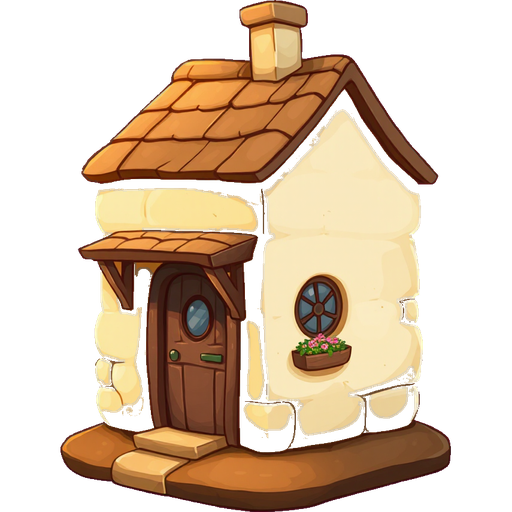
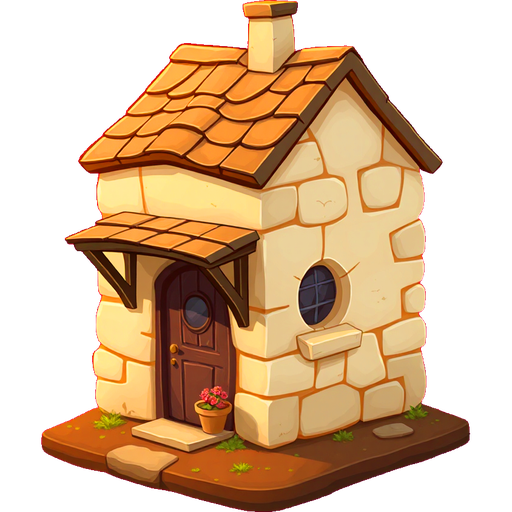
fix: solid cottage sprite - creatures were visible through its walls and roof notch

diff --git a/tools/art/briefs.py b/tools/art/briefs.py
@@ -130,7 +130,17 @@ PROMPTS = {
     "zombie_2": _REGRET + " Big heavy bruiser, wider jaw, both arms fully out.",
     # ---- The Homestead (house levels; 2 and 3 rewritten in 1C.6 for grandeur) ----
     "house_0": _HOMESTEAD + " A small thatched-roof hut with a stitched thatch patch.",
-    "house_1": _HOMESTEAD + " A stone cottage with a chimney.",
+    # house_1 originally carried no solidity clause at all — it predates the lesson — and
+    # shipped with creature faces visible through the wall/base junction and through the notch
+    # between the main roof and the porch roof. Same fix as the castle: forbid the overhangs.
+    "house_1": _HOMESTEAD + " A STONE COTTAGE with a chimney, a shingled porch roof over the "
+    "door built FLUSH against the wall, and a round window."
+    " The building is ONE SOLID CONTINUOUS MASS: solid unbroken walls from the roof down to "
+    "the ground, the walls meeting the ground with no gap, no open space beneath the roof "
+    "eaves or the porch roof, no holes or openings in the walls, nothing see-through anywhere "
+    "in the building."
+    " The ENTIRE background behind and around the building is ONE FLAT SOLID UNIFORM MAGENTA "
+    "COLOR filling the whole frame. No sky, no gradient, no horizon, no landscape.",
     "house_2": _HOMESTEAD + " A GRAND TWO-STORY house: brick walls, tall shuttered "
     "windows on both floors, a steep gabled roof, a chimney.",
     # house_3 is a CASTLE, chosen by Rajdweep 2026-09-04 after the villa re-rolls: he wanted

diff --git a/docs/assets/sprite-briefs.md b/docs/assets/sprite-briefs.md
@@ -65,7 +65,7 @@ the four shipped houses on 2026-09-04.
 | thistle_weed_0 | **Scruff** (weed) | Scraggly thistle punk: spiky awkward purple-green tuft, guilty sideways glance, sheepish grimace. |
 | odd_mushroom_0 | **Dozer** (weed) | Droopy dusty-purple mushroom creature: lopsided cap slid over one eye, half-asleep confused expression, tiny yawn. |
 | zombie_0/1/2 | **The Regret** | Cartoon zombie garden-person freshly risen out of the soil: grey-green skin, big round skull with a heavy brow, mismatched wide white eyes with tiny pupils, dislocated open jaw with a few crooked teeth, torn olive-brown t-shirt with a stitched fabric patch, shredded blue-grey trousers, both arms stretched forward with limp dangling fingers, a crumpled white paper RECEIPT (red scribble on it) stuck on its head like a little hat, soil clods at its feet, one small buzzing fly. Goofy and harmless, not scary or gory. Extra negatives: no suit, no necktie, no traffic cone, no bucket. 0: tiny toddler-sized. 1: standard shambler. 2: big heavy bruiser, wider jaw, both arms fully out. |
-| house_0..3 | **The Homestead** | Cozy storybook garden dwelling viewed from the front at a slight three-quarter angle suiting an isometric game, warm cream walls, front door facing viewer-left, round window, potted flower by the door, same outline + soft-shading style, on a soil base. 0: small thatched-roof hut with a stitched thatch patch. 1: stone cottage with a chimney. 2 (revised 1C.6): a GRAND TWO-STORY house — brick walls, tall shuttered windows on both floors, a steep gabled roof, a chimney. 3 (revised 2026-09-04): a GRAND CASTLE MANOR — symmetrical honey-stone facade flanked by two crenellated corner towers, a central arched gatehouse under a carved stone hood, mullioned arched windows, stone quoins. Rajdweep's pick after the villa re-rolls: he wanted something between a stately villa and a classical manor, referencing medieval castles. TWO hard clauses, each naming a past failure: (a) castle overhangs — machicolations, corbels, bartizans — are forbidden by name, because overhangs are exactly what left see-through bands across the previous villa; (b) the background clause is negative ("NO sky, NO gradient, NO horizon"), because a positive "isolated on magenta" was ignored and FLUX painted a sunset, leaving nothing for the keyer to remove. NOTE: `facade_gaps` reports ~38 rows for this sprite and that is correct — the gaps are the notches between the towers, which show only sky on the island. |
+| house_0..3 | **The Homestead** | Cozy storybook garden dwelling viewed from the front at a slight three-quarter angle suiting an isometric game, warm cream walls, front door facing viewer-left, round window, potted flower by the door, same outline + soft-shading style, on a soil base. 0: small thatched-roof hut with a stitched thatch patch. 1 (revised 2026-09-04): a STONE COTTAGE with a chimney, a shingled porch roof over the door built FLUSH against the wall, and a round window. The original brief was a single line with no solidity clause — it predates the lesson — and shipped with creature faces visible through the wall/base junction and through the notch between the main roof and the porch roof. Same two overhangs as the villa. Solidity and negative-background clauses added. 2 (revised 1C.6): a GRAND TWO-STORY house — brick walls, tall shuttered windows on both floors, a steep gabled roof, a chimney. 3 (revised 2026-09-04): a GRAND CASTLE MANOR — symmetrical honey-stone facade flanked by two crenellated corner towers, a central arched gatehouse under a carved stone hood, mullioned arched windows, stone quoins. Rajdweep's pick after the villa re-rolls: he wanted something between a stately villa and a classical manor, referencing medieval castles. TWO hard clauses, each naming a past failure: (a) castle overhangs — machicolations, corbels, bartizans — are forbidden by name, because overhangs are exactly what left see-through bands across the previous villa; (b) the background clause is negative ("NO sky, NO gradient, NO horizon"), because a positive "isolated on magenta" was ignored and FLUX painted a sunset, leaving nothing for the keyer to remove. NOTE: `facade_gaps` reports ~38 rows for this sprite and that is correct — the gaps are the notches between the towers, which show only sky on the island. |
 
 ## 1C.7 additions
 
